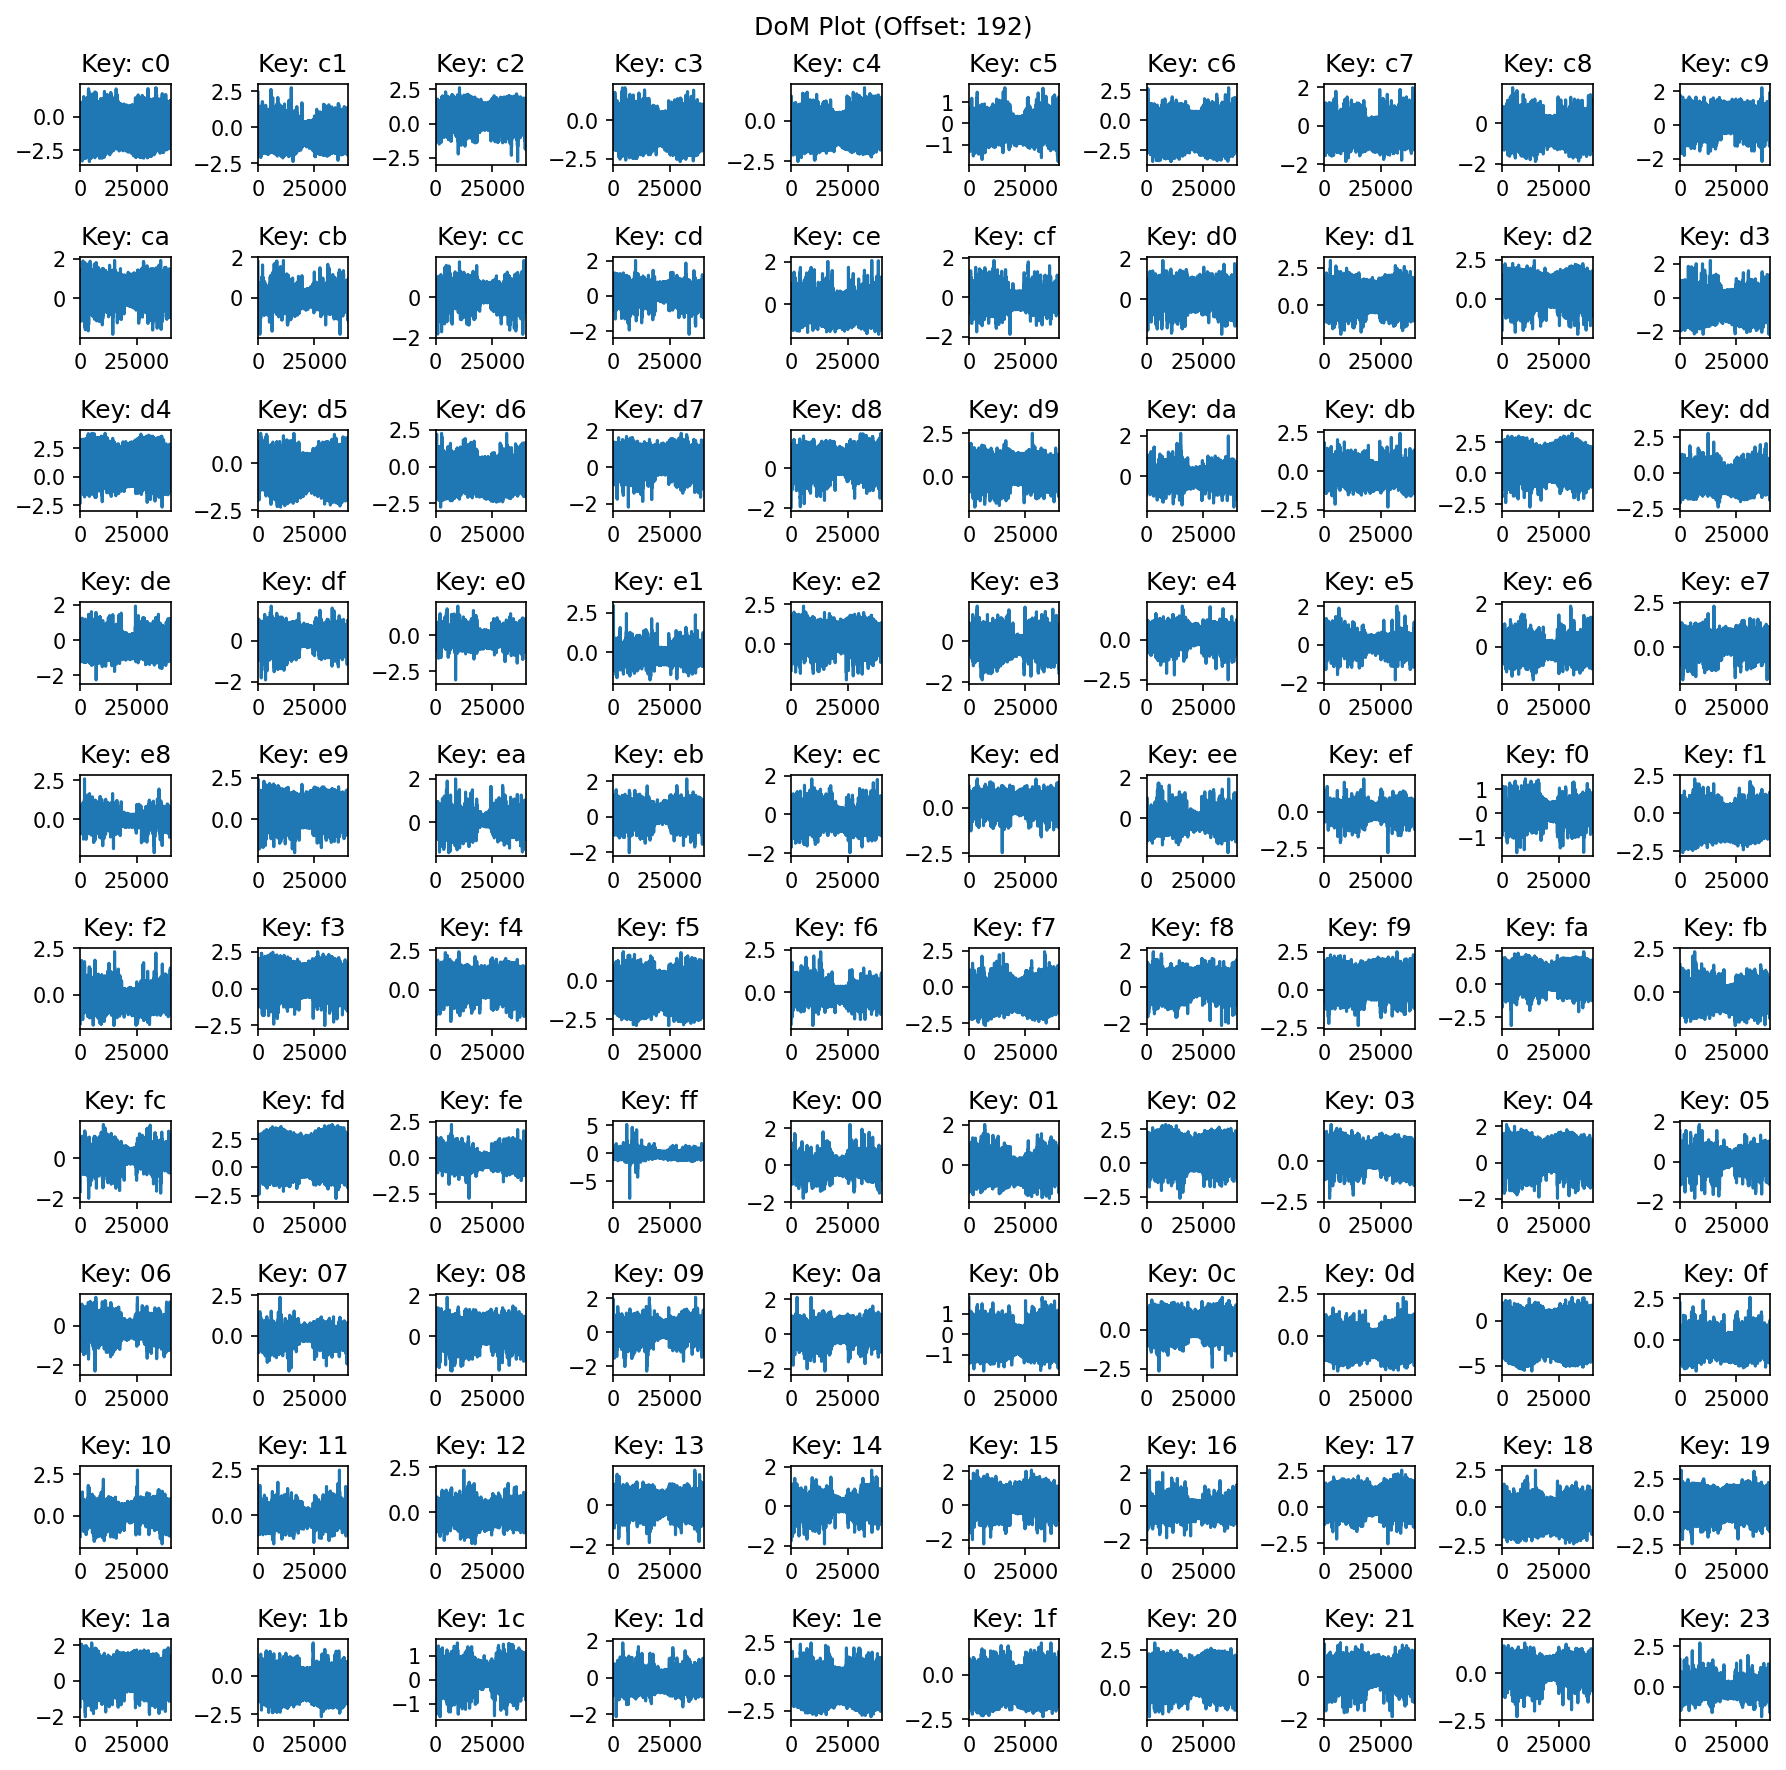
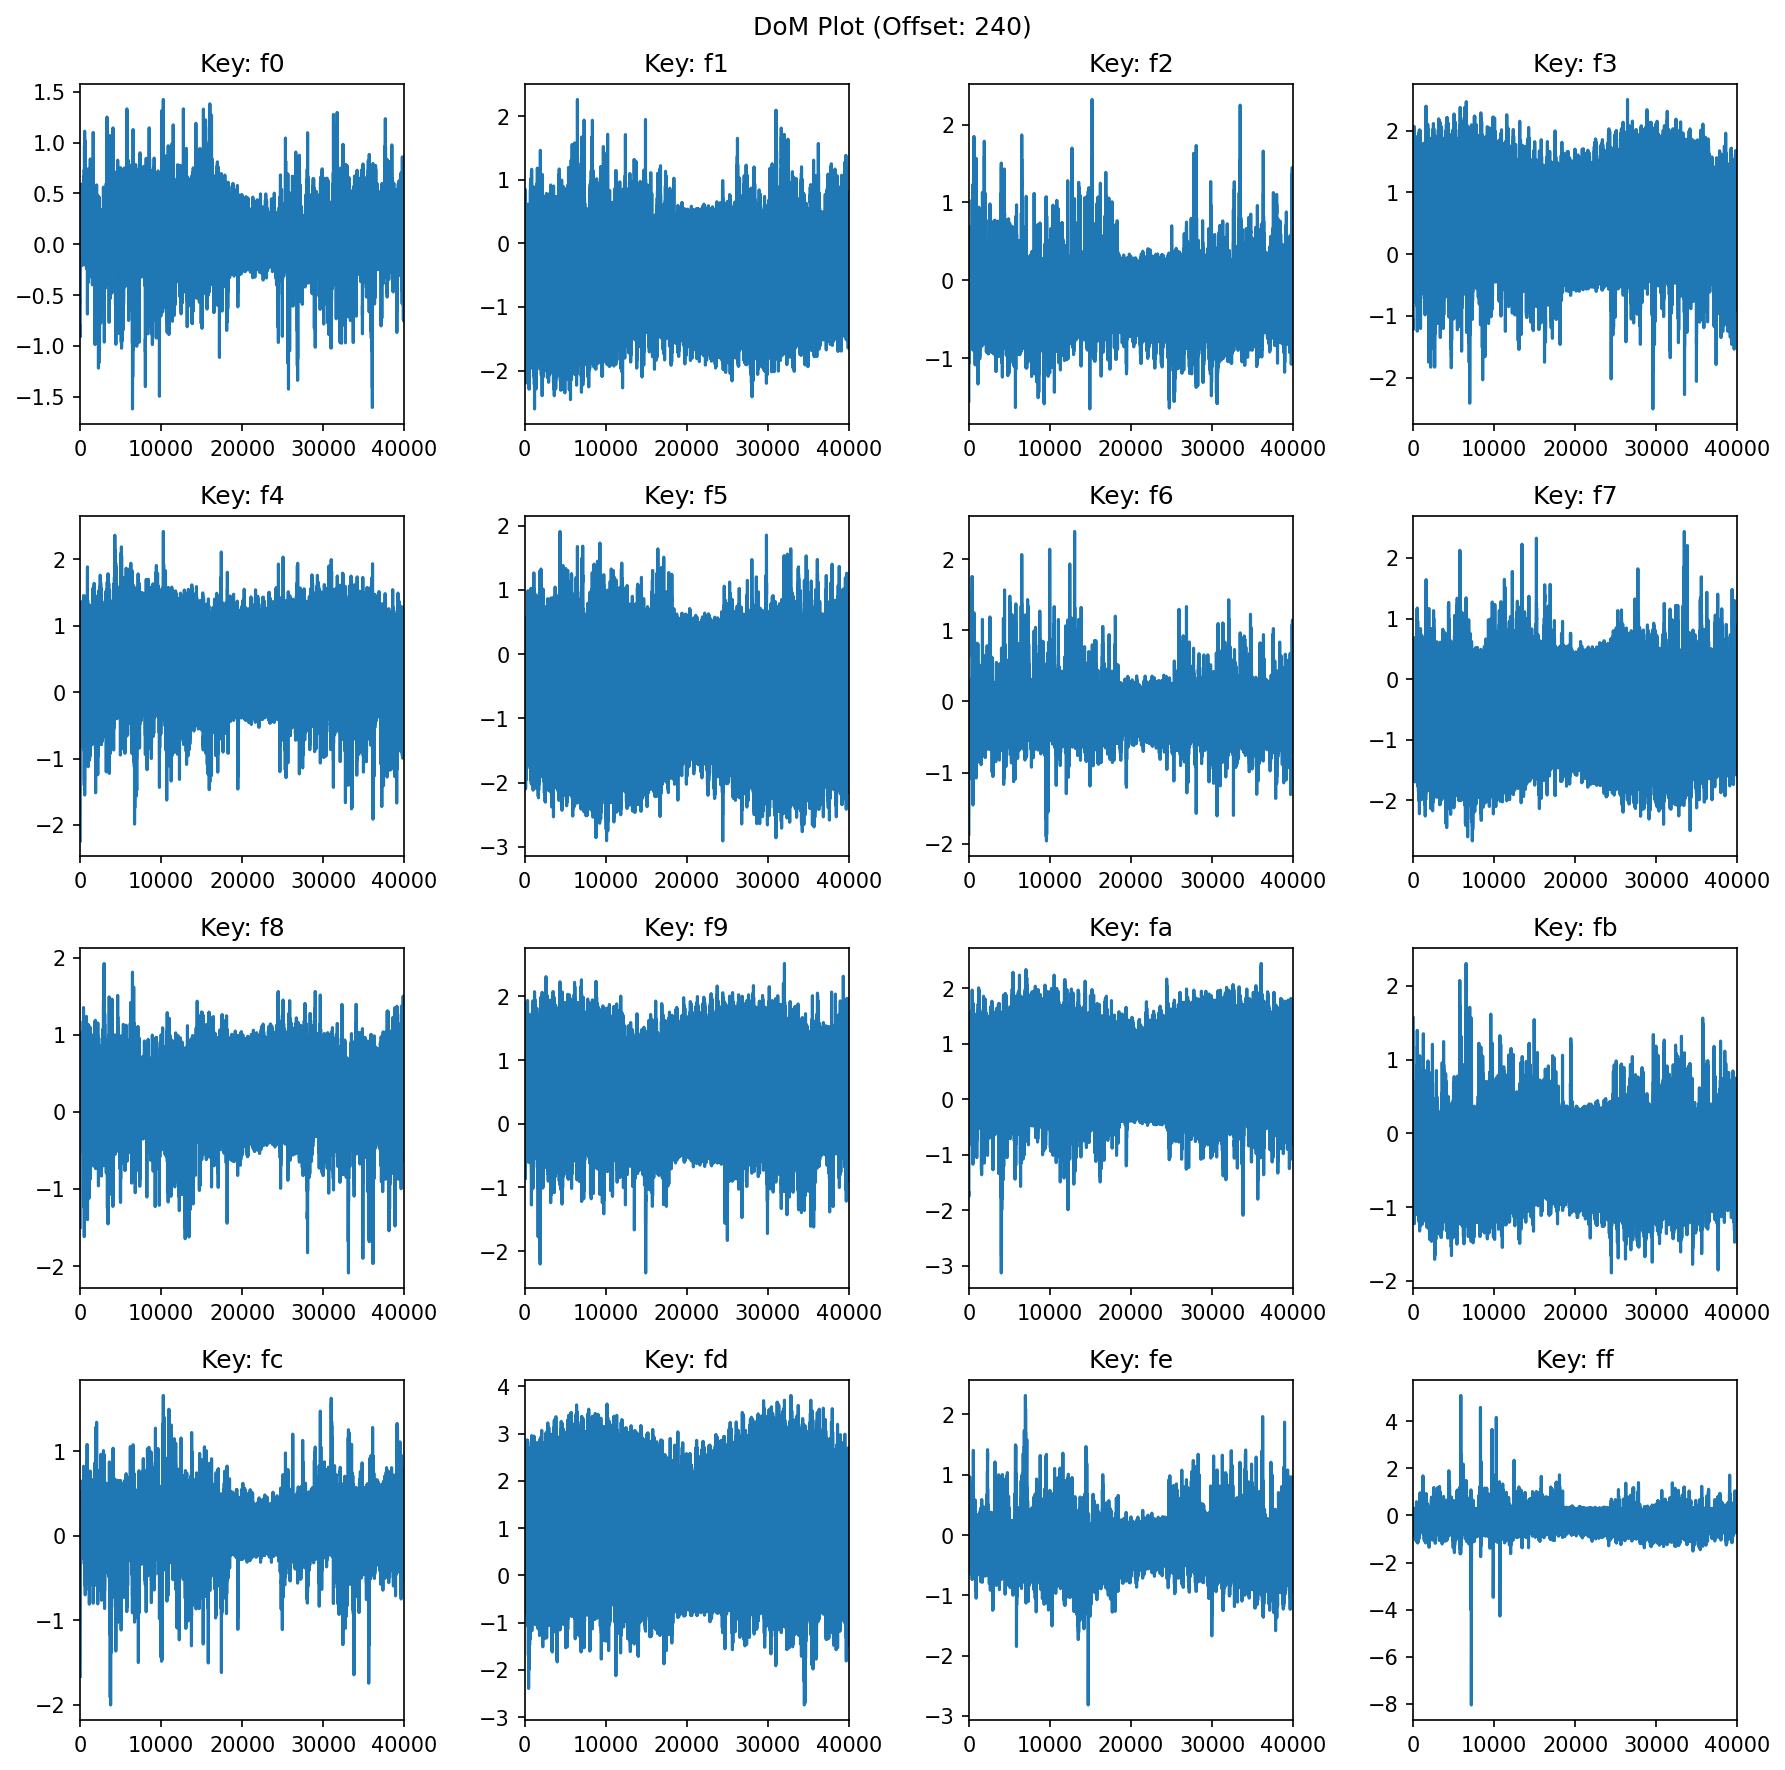
completed key generation, working on report plots

diff --git a/DPA_template.py b/DPA_template.py
@@ -29,8 +29,8 @@ traces = traces[:n_traces, :]
 ## Launch DPA and compute DoM, size of DoM 256 x 40000
 # Part 1
 
-for i in range(16): 
-    byte_to_attack = i  # Python uses 0-based indexing
+for j in range(16): 
+    byte_to_attack = j  # Python uses 0-based indexing
     key_guess = np.arange(256, dtype=np.uint8)  # 0 to 255
 
     input_plaintext = plain_text[:, byte_to_attack]
@@ -69,30 +69,43 @@ for i in range(16):
         mean0 = np.mean(traces[group0, :], axis=0)
         mean1 = np.mean(traces[group1, :], axis=0)
         DoM[col, :] = mean1-mean0
-        if maxDoM<abs(mean1-mean0):
-            maxDoM = abs(mean1-mean0)
+        if maxDoM<max(abs(mean1-mean0)):
+            maxDoM = max(abs(mean1-mean0))
             maxNum = col
         # TODO: Complete the DoM calculation
         pass
 
-    
+    # print(hex(maxNum))
+    bytes_recovered[j] = maxNum
 
-print("Bytes recovered (hex):")
+TRUE_KEY = np.array([0x00, 0x11, 0x22, 0x33, 0x44, 0x55, 0x66, 0x77, 0x88, 0x99, 0xAA, 0xBB, 0xCC, 0xDD, 0xEE, 0xFF])
+correct = 0
+for i in range(16):
+    differences = (TRUE_KEY[i]^int(hex(bytes_recovered[i]), 16))
+    correct+=(8-bin(differences).count("1"))
+accuracy = (correct/128)*100
+print("Accuracy:",accuracy)
+
+print("Full recovered key (hex):")
 print(' '.join([f'{b:02x}' for b in bytes_recovered]))
 
 # Compare with the golden key (if known)
 print("\nNote: Complete the implementation to recover the key bytes")
 
-## Sample code for plots
-OFFSET = 192  # for N=64, use 0, 64, 128, 192
-N = 8  # for an NxN plot
+
+
+
+
+# Sample code for plots
+OFFSET = 240  # for N=64, use 0, 64, 128, 192
+N = 4  # for an NxN plot
 
 fig, axes = plt.subplots(N, N, figsize=(12, 12))
 fig.suptitle(f'DoM Plot (Offset: {OFFSET})')
 
 for i in range(N):
     for j in range(N):
-        key_candidate = (i * N + j + OFFSET) % 256
+        key_candidate = (i * N  + j + OFFSET) % 256
         if key_candidate < DoM.shape[0]:
             axes[i, j].plot(DoM[key_candidate, :])
             axes[i, j].set_title(f'Key: {key_candidate:02x}')
@@ -101,3 +114,7 @@ for i in range(N):
 plt.tight_layout()
 plt.savefig('dpa_analysis_incomplete.png', dpi=150, bbox_inches='tight')
 plt.show()
+
+
+
+
